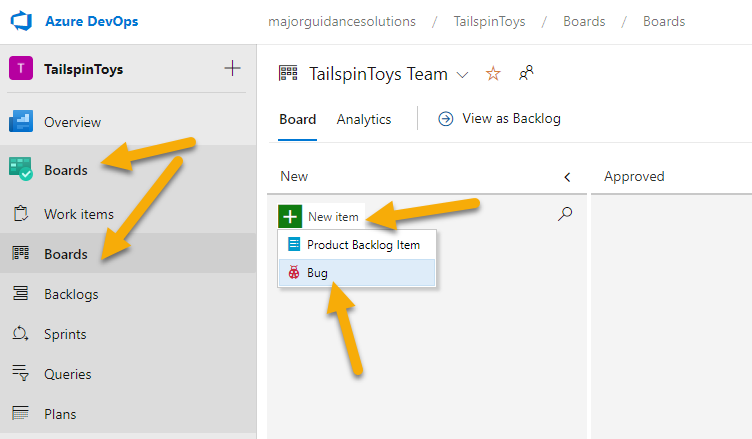
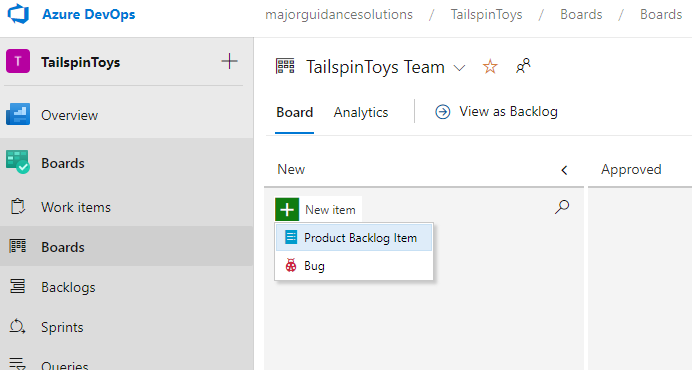
Updated to reflect work item, not bug

diff --git a/Hands-on lab/HOL step-by-step - Continuous delivery in Azure DevOps.md b/Hands-on lab/HOL step-by-step - Continuous delivery in Azure DevOps.md
@@ -1147,24 +1147,27 @@ Then, you will merge the pull request into the master branch, triggering an auto
 
 ### Task 1: Set up a pull request policy
 
-1.  Create a work item to simulate a scenario where a bug has generated a linked work item.  
+1.  Create a work item to associate to a pull request.
 
-    For this task, you will be creating a new work item that has been created as the result of a bug in the system.  
+    For this task, you will be creating a new work item that simulates having a task for the developer to complete that will be eventually be associated to a pull request.  
 
-    On the left navigation, select **Boards**, then use the green plus symbol in the `New` column to add a new work item.  Make sure to create the new work item as a `bug`.  
+    On the left navigation, select **Boards**, then use the green plus symbol in the `New` column to add a new work item.  Make sure to create the new work item as a `Product Backlog Item`.  
 
-    ![Screen showing how to use the navigation to create a new work item in the Azure Boards](images/stepbystep/media/image1036_01.png "Creating a new work item for a tracked bug")    
+    >NOTE: Instead of `Product Backlog Item`, you may see `User Story` or `TODO`, depending on what methodology you chose when you setup your organization (such as Agile, Scrum, or CMMI).    
+
+    ![Screen showing how to use the navigation to create a new work item in the Azure Boards](images/stepbystep/media/image1036_01.png "Creating a new work item for tracking developer work")    
 
     In the dialog that appears, enter the following text:  
 
     ```  
-    A user has reported an issue with the main page.  
+    Fix the navigation on the main page home link.  Currently redirects to Privacy.
     ```  
-    Save the work item for the tracked bug.  
+
+    Save the work item so that it will be assigned a valid number and be ready to assign to the next pull request (created in a future exercise).   
 
     ![Screen showing the created work item](images/stepbystep/media/image1036_02.png "Screen that shows the created work item")  
 
-    >Note: Your number will likely be different than mine.  
+    >Note: Your number will almost certainly be different than mine.  
 
 2.  On left navigation, select **Repos** and select **Branches** to view branches associated with your repo.  For now there is only the master branch.   Select the ellipsis for the master branch and select **Branch policies**.
 
